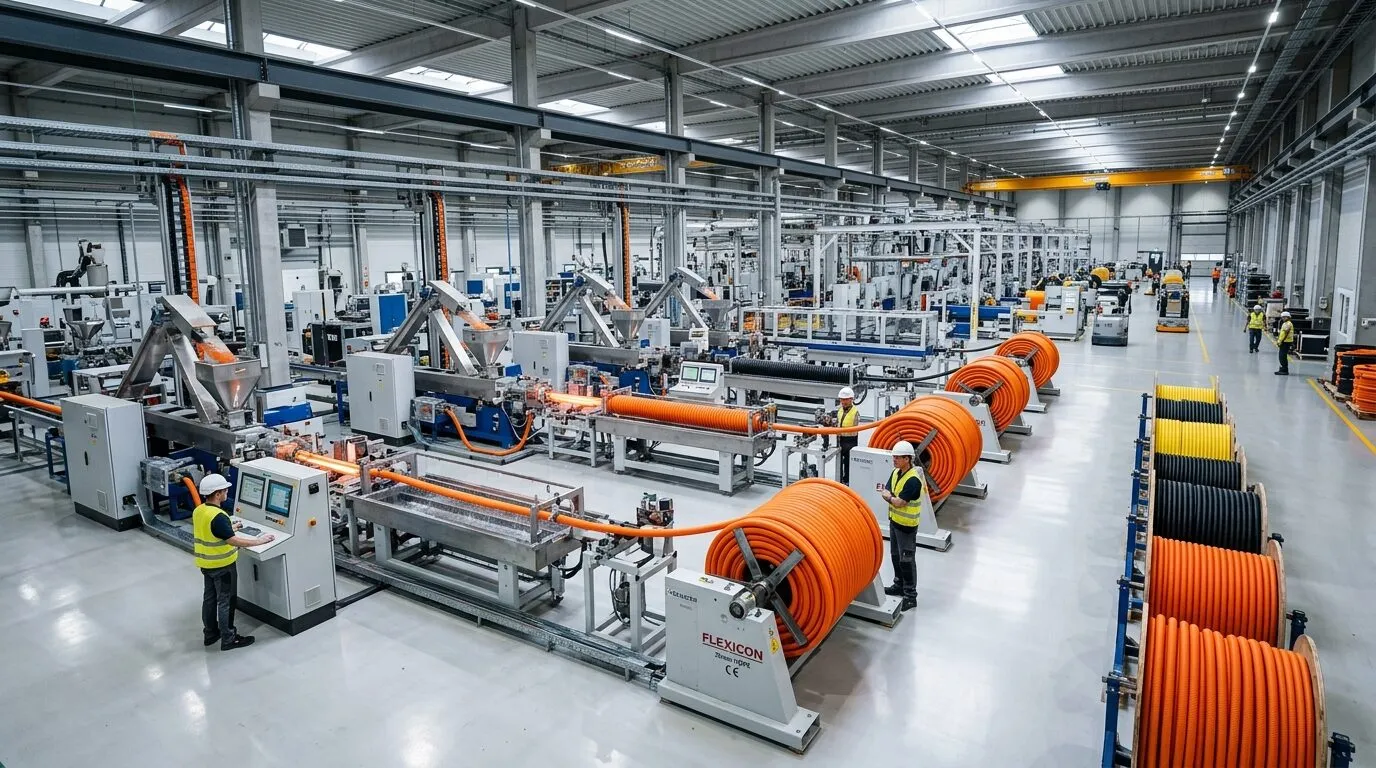
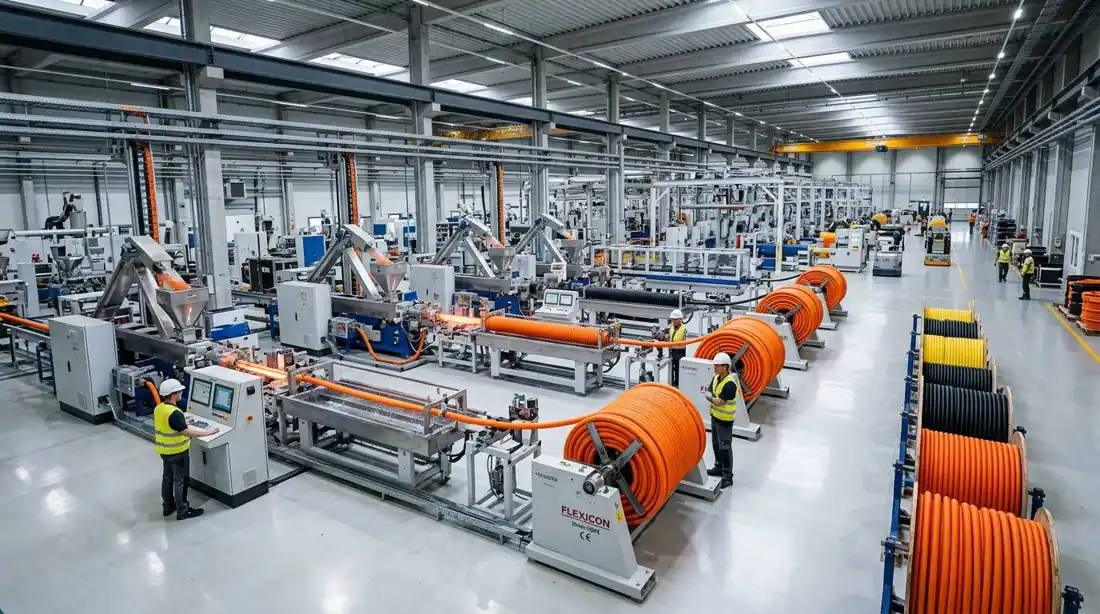
refactor: optimize hero image size and dimensions

diff --git a/src/pages/Home.tsx b/src/pages/Home.tsx
@@ -69,8 +69,8 @@ export default function Home() {
             src={IMAGES.hero} 
             onError={(e) => { e.currentTarget.src = IMAGES.publicUrls.hero; }}
             alt="Usine de fabrication de gaines électriques OMEGAP-DZ en Algérie" 
-            width={1600}
-            height={900}
+            width={1100}
+            height={614}
             fetchPriority="high"
             className="w-full h-full object-cover opacity-25 lg:opacity-35 filter brightness-105"
             loading="eager"
